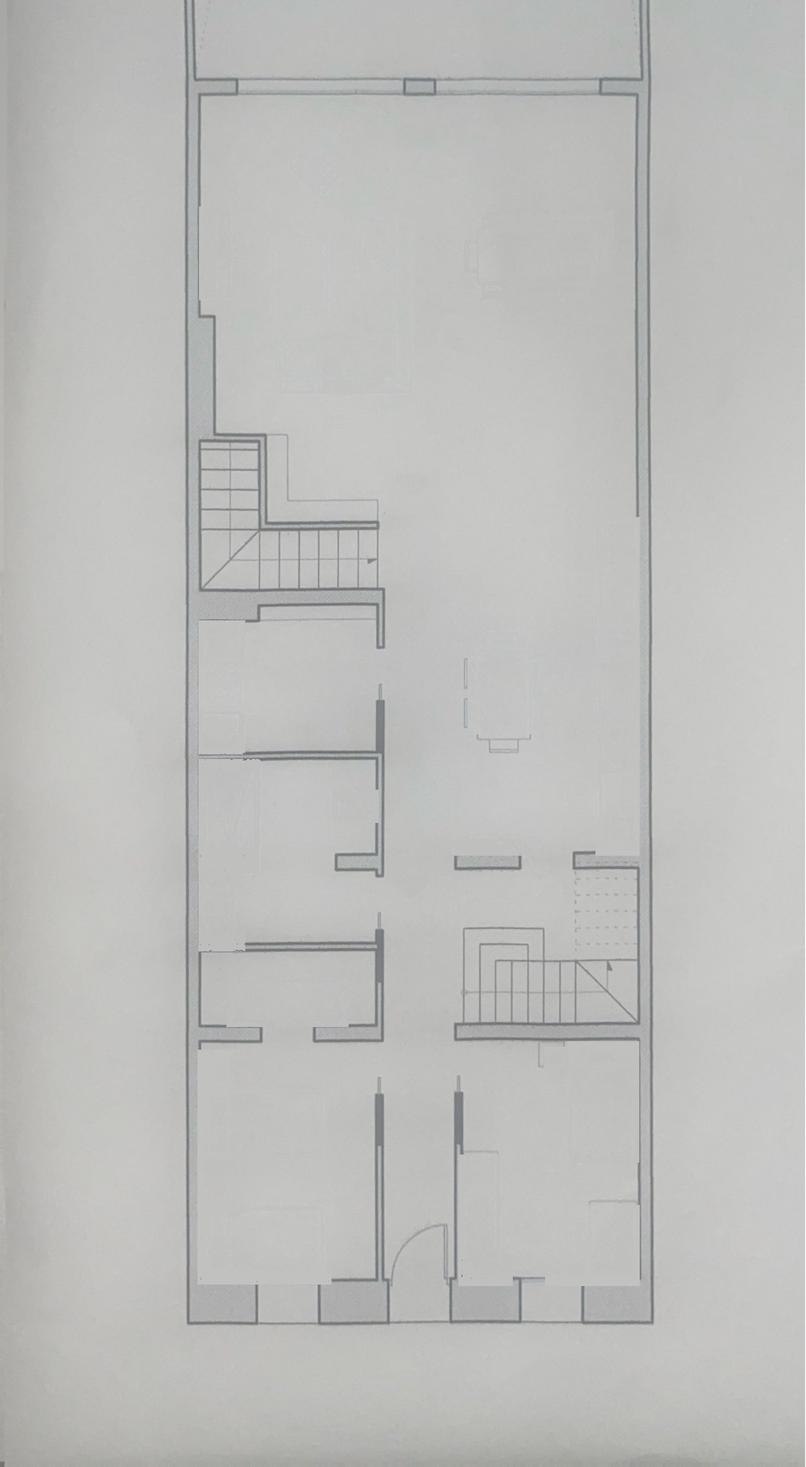
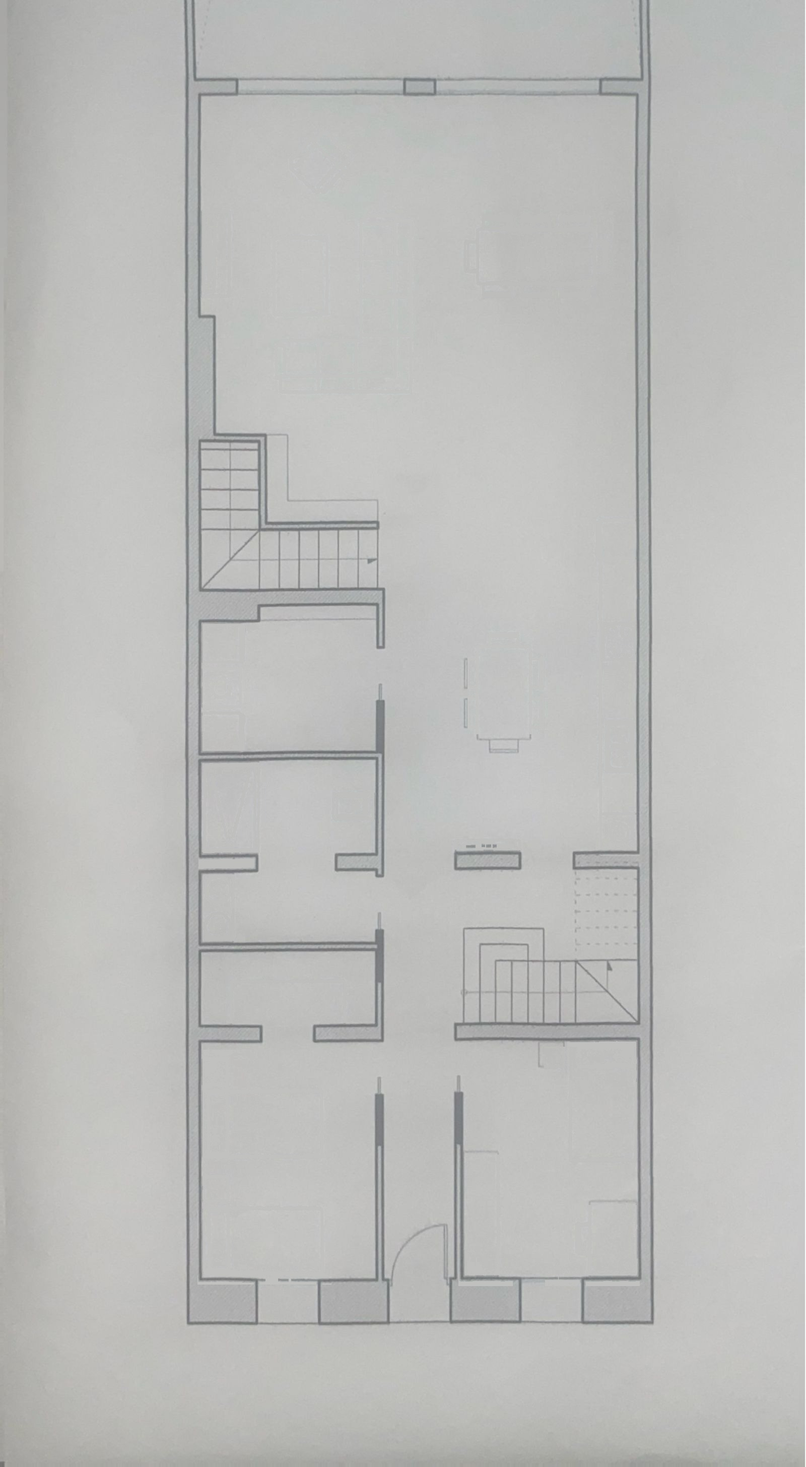
V2.85 — Planos: muros respetados, muebles no atraviesan muros, Mobiliario y térmicos en barra superior

diff --git a/planos/index.html b/planos/index.html
@@ -120,10 +120,10 @@ const IC={anadir:'<svg viewBox="0 0 24 24" fill="none" stroke="currentColor" str
  texto:'<svg viewBox="0 0 24 24" fill="none" stroke="currentColor" stroke-width="2.2"><path d="M5 5h14M12 5v15"/></svg>',
  borrar:'<svg viewBox="0 0 24 24" fill="none" stroke="currentColor" stroke-width="2"><path d="M4 7h16M9 7V4h6v3M6 7l1 13h10l1-13"/></svg>'};
 IC.subida='<svg viewBox="0 0 24 24" fill="none" stroke="currentColor" stroke-width="2"><circle cx="12" cy="12" r="9"/><path d="M12 17V7M8 11l4-4 4 4"/></svg>';
-const TODOS=[['mover','Mover'],['cable','Cable'],['caja','Caja'],['luz','Bombilla'],['int','Interruptor'],['ench','Enchufe'],['vent','Ventilador'],['cuadro','Cuadro'],['tv','TV / Red'],['subida','Subida'],['texto','Texto'],['mueble','Mobiliario'],['muro','Muro'],['borrar','Borrar']];
+const TODOS=[['mover','Mover'],['cable','Cable'],['caja','Caja'],['luz','Bombilla'],['int','Interruptor'],['ench','Enchufe'],['vent','Ventilador'],['cuadro','Cuadro'],['tv','TV / Red'],['subida','Subida'],['texto','Texto'],['muro','Muro'],['borrar','Borrar']];
 const PONER=['caja','luz','int','ench','vent','cuadro','tv','subida','texto'];
 const TIPOS=TODOS.filter(x=>PONER.includes(x[0]));
-const HERR=[['mover','Mover'],['anadir','Añadir'],['cable','Conectar'],['mueble','Mobiliario'],['muro','Muro'],['borrar','Borrar']];
+const HERR=[['mover','Mover'],['anadir','Añadir'],['cable','Conectar'],['muro','Muro'],['borrar','Borrar']];
 let CON=null;
 let CORR=false, VSEL=null; let MODO='mover', CIRC=P.circ[0]&&P.circ[0].id, SEL=null, DIB=null, ORTO=true, FIL=null;
 try{ ORTO=localStorage.getItem('dgp-planos-orto')!=='0'; }catch(e){}
@@ -157,6 +157,14 @@ function simb(el){ const t=el.t, k='#111';
 function cajaLin(el){ const M={}; P.cab.forEach(c=>{ if(c.a===el.id||c.b===el.id) M[c.c]=(M[c.c]||0)+1; });
   return P.circ.filter(c=>M[c.id]).map(c=>({t:c.nom+' - '+M[c.id],col:c.col})); }
 const MUE={cama2:['Cama doble',135,225],cama1:['Cama individual',95,200],sofa:['Sofá',200,90],sofaL:['Sofá en L',260,350],sillon:['Sillón',90,90],mesa:['Mesa',110,150],comedor:['Mesa con sillas',280,160],escritorio:['Escritorio',170,140],silla:['Silla',45,45],mesita:['Mesita',50,50],armario:['Armario',220,85],tvm:['Mueble TV',52,170],encimera:['Encimera',72,600],placa:['Placa',62,70],fregadero:['Fregadero',55,100],lavavajillas:['Lavavajillas / horno',62,72],lavadora:['Lavadora',77,75],secadora:['Secadora',77,72],frigo:['Frigorífico',75,75],inodoro:['Inodoro',66,50],lavabo:['Lavabo',80,50],ducha:['Ducha / bañera',100,200],radiador:['Radiador',128,24],otro:['Otro',100,100]};
+let MURO=null;
+function cargaMuro(){ MURO=null; if(!P.fondo||!P.fondo.src) return; const src=P.fondo.src, im=new Image(); im.crossOrigin='anonymous'; im.onload=()=>{ try{ const k=1, W=Math.ceil(P.fondo.w/k), H=Math.ceil(P.fondo.h/k), cv=document.createElement('canvas'); cv.width=W; cv.height=H; const cx=cv.getContext('2d'); cx.drawImage(im,0,0,W,H); const d=cx.getImageData(0,0,W,H).data, I=new Int32Array((W+1)*(H+1));
+  for(let y=0;y<H;y++){ let row=0; for(let x=0;x<W;x++){ const o=(y*W+x)*4; row+=((d[o]+d[o+1]+d[o+2])/3<142)?1:0; I[(y+1)*(W+1)+x+1]=I[y*(W+1)+x+1]+row; } }
+  if(P.fondo&&P.fondo.src===src) MURO={k,W,H,I,sx:P.fondo.w/im.naturalWidth}; window.__muro=MURO; }catch(e){ window.__muroErr=String(e); } }; im.onerror=()=>{ window.__muroErr='load'; }; im.src=src; }
+function choca(el){ if(!MURO||el.t!=='mueble') return false; const [a,b]=semi(el), k=MURO.k, W=MURO.W, ins=6;
+  const x0=Math.max(0,Math.floor((el.x-a+ins)/k)), x1=Math.min(W,Math.ceil((el.x+a-ins)/k)), y0=Math.max(0,Math.floor((el.y-b+ins)/k)), y1=Math.min(MURO.H,Math.ceil((el.y+b-ins)/k)); if(x1<=x0||y1<=y0) return false;
+  const I=MURO.I; return I[y1*(W+1)+x1]-I[y0*(W+1)+x1]-I[y1*(W+1)+x0]+I[y0*(W+1)+x0]; }
+const peor=(el,f)=>{ const a=choca(el); f(); return choca(el)>a+2; };
 function mueDim(el){ const d=MUE[el.m]||MUE.otro; return [el.w||d[1], el.h||d[2]]; }
 function mueSVG(el){ const [w,h]=mueDim(el), x0=-w/2, y0=-h/2, st=' fill="#ffffff" fill-opacity=".55" stroke="#374151" stroke-width="2"', R=(x,y,a,b,r)=>'<rect x="'+x+'" y="'+y+'" width="'+a+'" height="'+b+'" rx="'+(r||2)+'"'+st+'/>', C=(x,y,r)=>'<circle cx="'+x+'" cy="'+y+'" r="'+r+'"'+st+'/>', L=(d)=>'<path d="'+d+'" stroke="#374151" stroke-width="2" fill="none"/>';
   const m=el.m; let g='';
@@ -203,7 +211,8 @@ function puertos(c){ if(c.pts.length<2) return; const ea=c.a&&P.els.find(x=>x.id
   if(ea&&!c.pa) c.pa=ladoAuto(ea,c.pts[1]); if(eb&&!c.pb) c.pb=ladoAuto(eb,c.pts[c.pts.length-2]); }
 function sentido(c){ if(!c.ret){ const ea0=P.els.find(x=>x.id===c.a), eb0=P.els.find(x=>x.id===c.b); if(eb0&&esCaja(eb0)&&ea0&&!esCaja(ea0)){ c.pts.reverse(); [c.a,c.b]=[c.b,c.a]; [c.pa,c.pb]=[c.pb,c.pa]; } } puertos(c); return; const ea=P.els.find(x=>x.id===c.a), eb=P.els.find(x=>x.id===c.b);
   if(eb&&esCaja(eb)&&ea&&!esCaja(ea)){ c.pts.reverse(); [c.a,c.b]=[c.b,c.a]; [c.pa,c.pb]=[c.pb,c.pa]; } }
-function pinta(){ P.cab.forEach(sentido); marcadores(); $('nombre').textContent=P.nombre||'Plano';
+let MURO_SRC=null;
+function pinta(){ { const fs=P.fondo&&P.fondo.src||null; if(fs!==MURO_SRC){ MURO_SRC=fs; cargaMuro(); } } P.cab.forEach(sentido); marcadores(); $('nombre').textContent=P.nombre||'Plano';
   let h='<rect x="0" y="0" width="'+P.w+'" height="'+P.h+'" fill="#fff"/><rect x="0" y="0" width="'+P.w+'" height="'+P.h+'" fill="url(#cuad)"/>';
   if(P.fondo) h+='<image href="'+P.fondo.src+'" x="0" y="0" width="'+P.fondo.w+'" height="'+P.fondo.h+'" opacity="'+P.fop+'"/>';
   h+=P.muros.map(m=>'<line data-k="m" data-id="'+m.id+'" x1="'+m.x1+'" y1="'+m.y1+'" x2="'+m.x2+'" y2="'+m.y2+'" stroke="'+(SEL&&SEL.id===m.id?'#ffb81c':'#8a8a8a')+'" stroke-width="'+(m.g||18)+'" stroke-linecap="square"/>').join('');
@@ -234,7 +243,7 @@ function pinta(){ P.cab.forEach(sentido); marcadores(); $('nombre').textContent=
     if(REENG.el){ const el=P.els.find(x=>x.id===REENG.el); if(el) ['t','r','b','l'].forEach(sd=>{ const q=puerto(el,sd), o=sd==='t'?[0,-16]:sd==='b'?[0,16]:sd==='l'?[-16,0]:[16,0]; h+='<circle data-k="rp" data-id="'+el.id+'" data-s="'+sd+'" cx="'+(q[0]+o[0])+'" cy="'+(q[1]+o[1])+'" r="14" fill="#22c55e" stroke="#fff" stroke-width="3"/>'; }); }
   } }
   vista.innerHTML=h; pintaCircs(); pintaHerr(); pintaAccion(); }
-function pintaCircs(){ $('bDeshacer').disabled=!HIST.length; $('bRehacer').disabled=!REDO.length; $('circs').innerHTML='<button class="chip'+(CORR?' on':'')+'" data-c="corr">Corrugados</button><button class="chip'+(!FIL?' on':'')+'" data-c="*">Todos</button>'+P.circ.map(c=>'<button class="chip'+(FIL===c.id?' on':'')+'" data-c="'+c.id+'"><i style="background:'+c.col+'"></i>'+esc(c.nom)+(c.desc?' <span class="meta">'+esc(c.desc)+'</span>':'')+'</button>').join('')+'<button class="chip" data-c="+">+ Térmico</button>'; }
+function pintaCircs(){ $('bDeshacer').disabled=!HIST.length; $('bRehacer').disabled=!REDO.length; const cs=P.circ.find(c=>c.id===FIL); $('circs').innerHTML='<button class="chip'+(MODO==='mueble'?' on':'')+'" data-c="mob">Mobiliario</button><button class="chip'+(CORR?' on':'')+'" data-c="corr">Corrugados</button><span class="chip" style="position:relative;padding:0 30px 0 12px">'+(cs?'<i style="background:'+cs.col+'"></i>'+esc(cs.nom)+(cs.desc?' <span class="meta">'+esc(cs.desc)+'</span>':''):'Todos los térmicos')+' ▾<select id="selCirc" style="position:absolute;inset:0;opacity:0;width:100%;font-size:16px"><option value="*"'+(!FIL?' selected':'')+'>Todos los térmicos</option>'+P.circ.map(c=>'<option value="'+c.id+'"'+(FIL===c.id?' selected':'')+'>'+esc(c.nom)+(c.desc?' · '+esc(c.desc):'')+'</option>').join('')+'<option value="+">+ Añadir térmico</option></select></span>'+(cs?'<button class="chip" data-c="'+cs.id+'">Editar</button>':''); }
 function pintaHerr(){ $('herr').innerHTML=HERR.map(x=>'<button data-h="'+x[0]+'" class="'+(MODO===x[0]||(x[0]==='anadir'&&PONER.includes(MODO))?'on':'')+'">'+IC[x[0]]+'<span>'+x[1]+'</span></button>').join('');
   const av=$('aviso'); let t='';
   if(REENG) t=REENG.el?'Elige el lado de entrada':'Toca dónde conectarlo (en verde)';
@@ -254,7 +263,6 @@ const bi=(a,ic,t,on)=>'<button data-a="'+a+'" aria-label="'+t+'" title="'+t+'" c
 function pintaAccion(){ const a=$('accion'); let h='';
   if(MODO==='cable'&&DIB&&DIB.pts&&DIB.pts.length) h='<button data-a="atras">Quitar último punto</button><button data-a="orto">'+(ORTO?'Recto':'Libre')+'</button><button data-a="cancel">Cancelar</button>';
   else if(MODO==='cable'&&CON) h='<button data-a="ccan">'+(CON.nuevo?'No conectar':'Cancelar')+'</button>';
-  else if(MODO==='mueble'&&!SEL) h='<select id="addMue" style="flex:0 0 auto;width:auto;height:40px;border:1px solid var(--bd);border-radius:10px;background:var(--panel,#1c1f26);color:inherit;font:inherit;font-weight:600;padding:0 10px"><option value="">+ Añadir mueble</option>'+Object.keys(MUE).map(k=>'<option value="'+k+'">'+MUE[k][0]+'</option>').join('')+'</select>';
   else if(SEL){ if(SEL.k==='e'){ const el=P.els.find(x=>x.id===SEL.id); if(!el){ SEL=null; } else h=bi('lock',el.lock?AI.cerrado:AI.abierto,el.lock?'Desbloquear':'Bloquear',el.lock)+(el.t==='texto'?bi('edit',AI.texto,'Editar texto'):'')+(el.t==='mueble'?'<select id="selMue" style="flex:0 0 auto;width:auto;height:40px;border:1px solid var(--bd);border-radius:10px;background:var(--panel,#1c1f26);color:inherit;font:inherit;font-weight:600;padding:0 8px">'+Object.keys(MUE).map(k=>'<option value="'+k+'"'+((el.m||'cama2')===k?' selected':'')+'>'+MUE[k][0]+'</option>').join('')+'</select>':'')+(el.t==='ench'?'<select id="selTomas" style="flex:0 0 auto;width:auto;min-width:0;height:40px;border:1px solid var(--bd);border-radius:10px;background:var(--panel,#1c1f26);color:inherit;font:inherit;font-weight:600;padding:0 8px">'+[1,2,3,4,5].map(n=>'<option value="'+n+'"'+((el.n||1)===n?' selected':'')+'>×'+n+'</option>').join('')+'</select>':'')+(el.t!=='texto'?bi('sus',AI.sus,'Sustituir'):'')+(el.t!=='texto'&&el.t!=='caja'?bi('lab',AI.texto,'Nombre'):'')+bi('menos','−','Más pequeño')+bi('mas','+','Más grande')+bi('rot',AI.rot,'Girar')+bi('dup',AI.dup,'Duplicar')+bi('del',AI.del,'Borrar'); }
     else if(SEL.k==='c') { const cc=P.cab.find(x=>x.id===SEL.id)||{}; h=bi('lock',cc.lock?AI.cerrado:AI.abierto,cc.lock?'Desbloquear':'Bloquear',cc.lock)+(VSEL!=null?'<button data-a="qv">Quitar punto</button>':'')+'<button data-a="av">Añadir punto</button><button data-a="ret">'+(cc.ret?'Pasar a normal':'Pasar a retorno')+'</button><button data-a="ccol">Cambiar térmico</button><button data-a="flecha">Flecha</button><button data-a="grueso">Grosor</button>'+bi('del',AI.del,'Borrar'); }
     else if(SEL.k==='m') h=''+bi('del',AI.del,'Borrar muro')+''; }
@@ -281,7 +289,7 @@ svg.addEventListener('pointerdown',e=>{ svg.setPointerCapture(e.pointerId); PTR.
   if(h&&h.k==='rz'&&!(P.els.find(x=>x.id===h.id)||{}).lock){ const el=P.els.find(x=>x.id===h.id); snap(); ARR={tipo:'rz',id:h.id,d0:Math.max(8,Math.hypot(p.x-el.x,p.y-el.y)),s0:el.sc||1}; return; }
   if(MODO==='mover'||MODO==='mueble'){
     if(h&&h.k==='v'&&!(P.cab.find(x=>x.id===h.id)||{}).lock){ snap(); VSEL=h.i; ARR={tipo:'v',id:h.id,i:h.i}; pinta(); return; }
-    if(h&&(h.k==='e'||h.k==='c'||h.k==='m')){ if(!SEL||SEL.id!==h.id) VSEL=null; SEL={k:h.k,id:h.id}; const lo=(h.k==='e'?P.els.find(x=>x.id===h.id):h.k==='c'?P.cab.find(x=>x.id===h.id):null); if(lo&&lo.lock){ ARR={tipo:'pan',sx:e.clientX,sy:e.clientY,vx:VX,vy:VY}; pinta(); return; } snap(); ARR={tipo:'obj',k:h.k,id:h.id,x0:p.x,y0:p.y,orig:JSON.stringify(h.k==='e'?P.els.find(x=>x.id===h.id):h.k==='c'?P.cab.find(x=>x.id===h.id):P.muros.find(x=>x.id===h.id))}; pinta(); return; }
+    if(h&&(h.k==='e'||h.k==='c'||h.k==='m')){ if(!SEL||SEL.id!==h.id) VSEL=null; SEL={k:h.k,id:h.id}; const lo=(h.k==='e'?P.els.find(x=>x.id===h.id):h.k==='c'?P.cab.find(x=>x.id===h.id):null); if(lo&&lo.lock){ ARR={tipo:'pan',sx:e.clientX,sy:e.clientY,vx:VX,vy:VY}; pinta(); return; } snap(); ARR={tipo:'obj',c0:h.k==='e'?choca(P.els.find(x=>x.id===h.id)):0,k:h.k,id:h.id,x0:p.x,y0:p.y,orig:JSON.stringify(h.k==='e'?P.els.find(x=>x.id===h.id):h.k==='c'?P.cab.find(x=>x.id===h.id):P.muros.find(x=>x.id===h.id))}; pinta(); return; }
     ARR={tipo:'pan',sx:e.clientX,sy:e.clientY,vx:VX,vy:VY,desel:true}; return; }
   if(MODO==='muro'){ const q=[rej(p.x),rej(p.y)]; DIB={muro:{x1:q[0],y1:q[1],x2:q[0],y2:q[1]}}; ARR={tipo:'muro'}; return; }
   ARR={tipo:'tap',sx:e.clientX,sy:e.clientY,vx:VX,vy:VY,p,h}; });
@@ -294,10 +302,10 @@ svg.addEventListener('pointermove',e=>{ if(!PTR.has(e.pointerId)) return; PTR.se
   if(ARR.tipo==='pan'||ARR.tipo==='tap'){ const dx=e.clientX-ARR.sx, dy=e.clientY-ARR.sy; if(Math.hypot(dx,dy)>6){ MOV=true; if(ARR.tipo==='tap') ARR={tipo:'pan',sx:ARR.sx,sy:ARR.sy,vx:ARR.vx,vy:ARR.vy}; VX=ARR.vx+dx; VY=ARR.vy+dy; aplicaVista(); } return; }
   if(ARR.tipo==='re'){ if(Math.hypot(e.clientX-ARR.sx,e.clientY-ARR.sy)>6){ MOV=true; REENG={id:ARR.id,w:ARR.w,drag:[p.x,p.y]}; const c=P.cab.find(x=>x.id===ARR.id); const t=c&&reCand(c,ARR.w).find(el=>{ const [a,b]=semi(el); return Math.abs(p.x-el.x)<a+30&&Math.abs(p.y-el.y)<b+30; }); REENG.el=t?t.id:null; pinta(); } return; }
   if(ARR.tipo==='muro'){ const m=DIB.muro; let q=[rej(p.x),rej(p.y)]; q=ortoPt([m.x1,m.y1],q); m.x2=q[0]; m.y2=q[1]; pinta(); return; }
-  if(ARR.tipo==='rz'){ const el=P.els.find(x=>x.id===ARR.id); el.sc=Math.max(.3,Math.min(4,ARR.s0*Math.hypot(p.x-el.x,p.y-el.y)/ARR.d0)); MOV=true; pinta(); return; }
+  if(ARR.tipo==='rz'){ const el=P.els.find(x=>x.id===ARR.id); const sc0=el.sc, c0=choca(el); el.sc=Math.max(.3,Math.min(4,ARR.s0*Math.hypot(p.x-el.x,p.y-el.y)/ARR.d0)); if(choca(el)>c0+2) el.sc=sc0; MOV=true; pinta(); return; }
   if(ARR.tipo==='v'){ const c=P.cab.find(x=>x.id===ARR.id); if(!c) return; let q=[rej(p.x),rej(p.y)]; c.pts[ARR.i]=q; MOV=true; pinta(); return; }
   if(ARR.tipo==='obj'){ const dx=rej(p.x-ARR.x0), dy=rej(p.y-ARR.y0); if(!dx&&!dy) return; MOV=true; const o=JSON.parse(ARR.orig);
-    if(ARR.k==='e'){ const el=P.els.find(x=>x.id===ARR.id); el.x=o.x+dx; el.y=o.y+dy; sigue(el); }
+    if(ARR.k==='e'){ const el=P.els.find(x=>x.id===ARR.id); if(el.t==='mueble'){ const ox=el.x, oy=el.y, ok=()=>choca(el)<=(ARR.c0||0)+40; el.x=o.x+dx; el.y=o.y+dy; if(!ok()){ el.x=o.x+dx; el.y=oy; if(!ok()){ el.x=ox; el.y=o.y+dy; if(!ok()){ el.x=ox; el.y=oy; } } } } else { el.x=o.x+dx; el.y=o.y+dy; } sigue(el); }
     else if(ARR.k==='c'){ const c=P.cab.find(x=>x.id===ARR.id); c.pts=o.pts.map(q=>[q[0]+dx,q[1]+dy]); }
     else { const m=P.muros.find(x=>x.id===ARR.id); m.x1=o.x1+dx; m.y1=o.y1+dy; m.x2=o.x2+dx; m.y2=o.y2+dy; }
     pinta(); } });
@@ -344,11 +352,12 @@ function conToque(h){ const okE=id=>{ const el=P.els.find(x=>x.id===id); return 
 function terminaCable(){ if(DIB&&DIB.pts&&DIB.pts.length>1){ snap(); P.cab.push(Object.assign({id:uid(),c:DIB.c,pts:DIB.pts,fl:true,g:4,a:DIB.a||null,b:DIB.b||null,ret:!!DIB.ret},DIB.pa?{pa:DIB.pa,pb:DIB.pb}:{})); sentido(P.cab[P.cab.length-1]); guarda(); } DIB=null; pinta(); }
 
 $('herr').onclick=e=>{ const b=e.target.closest('button'); if(!b) return; if(DIB&&DIB.pts) terminaCable(); CON=null;
-  if(b.dataset.h==='anadir'){ hoja('<h3>Añadir</h3><div style="display:grid;grid-template-columns:repeat(3,1fr);gap:8px">'+TIPOS.map(x=>'<button data-pon="'+x[0]+'" style="height:78px;display:flex;flex-direction:column;align-items:center;justify-content:center;gap:6px">'+IC[x[0]]+'<span style="font-size:13px">'+x[1]+'</span></button>').join('')+'</div><button id="ponX" style="margin-top:10px;width:100%">Cerrar</button>');
-    $('hoja').onclick=ev=>{ const q=ev.target.closest('button'); if(!q) return; if(q.dataset.pon){ MODO=q.dataset.pon; SEL=null; } cierra(); pinta(); }; return; }
+  if(b.dataset.h==='anadir'){ hoja('<h3>Añadir</h3><div style="display:grid;grid-template-columns:repeat(3,1fr);gap:8px">'+TIPOS.map(x=>'<button data-pon="'+x[0]+'" style="height:78px;display:flex;flex-direction:column;align-items:center;justify-content:center;gap:6px">'+IC[x[0]]+'<span style="font-size:13px">'+x[1]+'</span></button>').join('')+'</div><h3 style="margin-top:14px">Mobiliario</h3><div style="display:grid;grid-template-columns:repeat(3,1fr);gap:8px">'+Object.keys(MUE).map(k=>'<button data-mue="'+k+'" style="height:48px;font-size:13px">'+MUE[k][0]+'</button>').join('')+'</div><button id="ponX" style="margin-top:10px;width:100%">Cerrar</button>');
+    $('hoja').onclick=ev=>{ const q=ev.target.closest('button'); if(!q) return; if(q.dataset.pon){ MODO=q.dataset.pon; SEL=null; } if(q.dataset.mue){ const r=$('lienzo').getBoundingClientRect(); snap(); const el={id:uid(),t:'mueble',m:q.dataset.mue,x:Math.round((r.width/2-VX)/VS),y:Math.round((r.height/2-VY)/VS),r:0}; P.els.push(el); MODO='mueble'; SEL={k:'e',id:el.id}; guarda(); } cierra(); pinta(); }; return; }
   MODO=b.dataset.h; if(MODO!=='mover') SEL=null; pinta(); };
+$('circs').onchange=e=>{ if(e.target.id!=='selCirc') return; const v=e.target.value, o={dataset:{c:v}}; $('circs').onclick({target:{closest:()=>o}}); };
 $('circs').onclick=e=>{ const b=e.target.closest('button'); if(!b) return; const c=b.dataset.c; if(c==='+'){ abreCirc(); return; }
-  if(c==='*'){ FIL=null; pinta(); return; } if(c==='corr'){ togCorr(); return; }
+  if(c==='mob'){ MODO=MODO==='mueble'?'mover':'mueble'; SEL=null; CON=null; pinta(); return; } if(c==='*'){ FIL=null; pinta(); return; } if(c==='corr'){ togCorr(); return; }
   if(SEL&&SEL.k==='c'){ snap(); const k=P.cab.find(x=>x.id===SEL.id); if(k) k.c=c; CIRC=c; guarda(); pinta(); return; }
   if(DIB&&DIB.pts){ DIB.c=c; CIRC=c; pinta(); return; }
   if(FIL===c){ abreCirc(P.circ.find(x=>x.id===c)); return; }
@@ -369,7 +378,7 @@ $('accion').onclick=e=>{ const b=e.target.closest('button'); if(!b) return; cons
       $('hoja').querySelectorAll('svg').forEach(v=>{ v.style.width='24px'; v.style.height='24px'; });
       $('hoja').onclick=e=>{ const b=e.target.closest('button'); if(!b) return; if(b.id==='sX') cierra(); if(b.dataset.st){ snap(); el.t=b.dataset.st; delete el.n; if(el.t!=='caja') delete el.txt; guarda(); cierra(); pinta(); } }; return; }
     if(a==='lab'){ hoja('<h3>Nombre del aparato</h3><div class="campo"><input id="lTxt" value="'+esc(el.lab||'')+'" placeholder="Ej. Aire acondicionado, Aerotermia, Placa" maxlength="30"></div><div class="fila"><button class="pri" id="lOk" style="flex:1">Guardar</button><button id="lX">Cancelar</button></div>'); setTimeout(()=>$('lTxt').focus(),60); $('hoja').onclick=e=>{ const b=e.target.closest('button'); if(!b) return; if(b.id==='lX') cierra(); if(b.id==='lOk'){ snap(); el.lab=$('lTxt').value.trim(); guarda(); cierra(); pinta(); } }; return; }
-    if(a==='mas'||a==='menos'){ snap(); el.sc=Math.max(.3,Math.min(4,(el.sc||1)*(a==='mas'?1.2:1/1.2))); } else if(a==='rot'){ snap(); el.r=((el.r||0)+90)%360; } else if(a==='dup'){ snap(); const n=Object.assign({},el,{id:uid(),x:el.x+40,y:el.y+40}); P.els.push(n); SEL={k:'e',id:n.id}; }
+    if(a==='mas'||a==='menos'){ snap(); el.sc=Math.max(.3,Math.min(4,(el.sc||1)*(a==='mas'?1.2:1/1.2))); } else if(a==='rot'){ snap(); const c0=choca(el), r0=el.r; el.r=((el.r||0)+90)%360; if(choca(el)>c0+2){ el.r=r0; aviso('No cabe: chocaría con un muro'); } } else if(a==='dup'){ snap(); const n=Object.assign({},el,{id:uid(),x:el.x+40,y:el.y+40}); P.els.push(n); SEL={k:'e',id:n.id}; }
     else if(a==='doble'){ snap(); el.n=el.n>1?1:2; } else if(a==='edit'){ editaTexto(el); return; } guarda(); pinta(); }
   else if(SEL&&SEL.k==='c'){ const c=P.cab.find(x=>x.id===SEL.id); if(!c) return;
     if(a==='av'){ snap(); let bi=0,bl=-1; for(let i=0;i<c.pts.length-1;i++){ const L=Math.hypot(c.pts[i+1][0]-c.pts[i][0],c.pts[i+1][1]-c.pts[i][1]); if(L>bl){ bl=L; bi=i; } } const A=c.pts[bi],B=c.pts[bi+1]; c.pts.splice(bi+1,0,[rej((A[0]+B[0])/2),rej((A[1]+B[1])/2)]); VSEL=bi+1; }
@@ -539,7 +548,7 @@ pinta(); requestAnimationFrame(ajustar); cargaSrv().then(plantillas).then(migraR
 </script>
 <script>
 (function(){
-  var BUILD='V2.84', ROOT='../';
+  var BUILD='V2.85', ROOT='../';
   var VJ=new URL(ROOT+'version.json',location.href).href, t0=Date.now(), busy=false;
   function intentos(n){ try{ if(n===undefined) return +(sessionStorage.getItem('dgp_upd')||0); sessionStorage.setItem('dgp_upd',n); }catch(e){ return 0; } }
   async function recargar(){ intentos(intentos()+1); try{ await fetch(location.href.split('#')[0],{cache:'reload'}); }catch(e){} location.reload(); }

diff --git a/juegos/crucigramas/index.html b/juegos/crucigramas/index.html
@@ -96,7 +96,7 @@ summary{cursor:pointer;font-weight:600;padding:8px 0}
   <details id="det"><summary>Todas las pistas</summary><div id="lh"></div><div id="lv"></div></details>
   <h2>Mis crucigramas</h2>
   <div class="lista" id="lista"></div>
-  <p class="pie"><span id="version">V2.84</span></p>
+  <p class="pie"><span id="version">V2.85</span></p>
 </main>
 <script src="https://cdn.jsdelivr.net/npm/@supabase/supabase-js@2.45.0/dist/umd/supabase.min.js"></script>
 <script>
@@ -1030,7 +1030,7 @@ sincronizar();
 <script>
 /* Actualización automática: compara con version.json y recarga si hay versión nueva */
 (function(){
-  var BUILD='V2.84', ROOT='../../';
+  var BUILD='V2.85', ROOT='../../';
   var VJ=new URL(ROOT+'version.json',location.href).href, t0=Date.now(), busy=false;
   function intentos(n){ try{ if(n===undefined) return +(sessionStorage.getItem('dgp_upd')||0); sessionStorage.setItem('dgp_upd',n); }catch(e){ return 0; } }
   async function recargar(){ intentos(intentos()+1); try{ await fetch(location.href.split('#')[0],{cache:'reload'}); }catch(e){} location.reload(); }

diff --git a/media/index.html b/media/index.html
@@ -169,7 +169,7 @@ pre{white-space:pre-wrap;font-size:.75rem;color:var(--mut);max-height:160px;over
     </div>
   </section>
   <div class="m" id="diag" style="margin-top:18px;text-align:center;font-size:.75rem"></div>
-  <div class="m" style="margin-top:4px;text-align:center"><span id="version">V2.84</span></div>
+  <div class="m" style="margin-top:4px;text-align:center"><span id="version">V2.85</span></div>
   <pre id="log" hidden></pre>
 </div>
 
@@ -869,7 +869,7 @@ window.__medios={BD,get bucle(){return bucle;},get ctx(){return ctxA;},get prevE
 <script>
 /* Actualización automática: compara con version.json y recarga si hay versión nueva */
 (function(){
-  var BUILD='V2.84', ROOT='../';
+  var BUILD='V2.85', ROOT='../';
   if(/[?&]embed=1/.test(location.search)) return;
   var VJ=new URL(ROOT+'version.json',location.href).href, t0=Date.now(), busy=false;
   function intentos(n){ try{ if(n===undefined) return +(sessionStorage.getItem('dgp_upd')||0); sessionStorage.setItem('dgp_upd',n); }catch(e){ return 0; } }

diff --git a/index.html b/index.html
@@ -188,7 +188,7 @@ html,body{overscroll-behavior:none}html.sa{min-height:calc(100% + env(safe-area-
   <aside class="side">
     <div class="brand">DGP</div>
     <nav id="nav" aria-label="Secciones"></nav>
-    <div class="foot"><span class="m"><span id="version">V2.84</span></span><button id="out">Salir</button></div>
+    <div class="foot"><span class="m"><span id="version">V2.85</span></span><button id="out">Salir</button></div>
   </aside>
   <div>
   <div class="main">
@@ -952,7 +952,7 @@ iniciar();
 <script>
 /* Actualización automática: compara con version.json y recarga si hay versión nueva */
 (function(){
-  var BUILD='V2.84', ROOT='';
+  var BUILD='V2.85', ROOT='';
   if(/[?&]embed=1/.test(location.search)) return;
   var VJ=new URL(ROOT+'version.json',location.href).href, t0=Date.now(), busy=false;
   function intentos(n){ try{ if(n===undefined) return +(sessionStorage.getItem('dgp_upd')||0); sessionStorage.setItem('dgp_upd',n); }catch(e){ return 0; } }

diff --git a/juegos/index.html b/juegos/index.html
@@ -133,7 +133,7 @@ h2{font-size:.78rem;letter-spacing:.06em;text-transform:uppercase;color:var(--mu
   <h2>Mis partidas</h2>
   <div class="lista" id="lista"></div>
 
-  <p class="pie"><span id="version">V2.84</span></p>
+  <p class="pie"><span id="version">V2.85</span></p>
 </main>
 
 <script src="https://cdn.jsdelivr.net/npm/@supabase/supabase-js@2.45.0/dist/umd/supabase.min.js"></script>
@@ -590,7 +590,7 @@ sincronizar();
 <script>
 /* Actualización automática: compara con version.json y recarga si hay versión nueva */
 (function(){
-  var BUILD='V2.84', ROOT='../';
+  var BUILD='V2.85', ROOT='../';
   if(/[?&]embed=1/.test(location.search)) return;
   var VJ=new URL(ROOT+'version.json',location.href).href, t0=Date.now(), busy=false;
   function intentos(n){ try{ if(n===undefined) return +(sessionStorage.getItem('dgp_upd')||0); sessionStorage.setItem('dgp_upd',n); }catch(e){ return 0; } }

diff --git a/cocina/index.html b/cocina/index.html
@@ -579,7 +579,7 @@ document.addEventListener('visibilitychange',()=>{ if(!document.hidden&&$('sheet
 <script>
 /* Actualización automática */
 (function(){
-  var BUILD='V2.84', ROOT='../';
+  var BUILD='V2.85', ROOT='../';
   var VJ=new URL(ROOT+'version.json',location.href).href, t0=Date.now(), busy=false;
   function intentos(n){ try{ if(n===undefined) return +(sessionStorage.getItem('dgp_upd')||0); sessionStorage.setItem('dgp_upd',n); }catch(e){ return 0; } }
   async function recargar(){ intentos(intentos()+1); try{ await fetch(location.href.split('#')[0],{cache:'reload'}); }catch(e){} location.reload(); }

diff --git a/pizzeria/index.html b/pizzeria/index.html
@@ -214,7 +214,7 @@ document.addEventListener('visibilitychange',()=>{ if(!document.hidden) carga();
 <script>
 /* Actualización automática */
 (function(){
-  var BUILD='V2.84', ROOT='../';
+  var BUILD='V2.85', ROOT='../';
   var VJ=new URL(ROOT+'version.json',location.href).href, t0=Date.now(), busy=false;
   function intentos(n){ try{ if(n===undefined) return +(sessionStorage.getItem('dgp_upd')||0); sessionStorage.setItem('dgp_upd',n); }catch(e){ return 0; } }
   async function recargar(){ intentos(intentos()+1); try{ await fetch(location.href.split('#')[0],{cache:'reload'}); }catch(e){} location.reload(); }

diff --git a/proporciones/index.html b/proporciones/index.html
@@ -161,7 +161,7 @@ idbGet().then(b=>{ if(b) ponerImg(b); });
 <script>
 /* Actualización automática */
 (function(){
-  var BUILD='V2.84', ROOT='../';
+  var BUILD='V2.85', ROOT='../';
   var VJ=new URL(ROOT+'version.json',location.href).href, t0=Date.now(), busy=false;
   function intentos(n){ try{ if(n===undefined) return +(sessionStorage.getItem('dgp_upd')||0); sessionStorage.setItem('dgp_upd',n); }catch(e){ return 0; } }
   async function recargar(){ intentos(intentos()+1); try{ await fetch(location.href.split('#')[0],{cache:'reload'}); }catch(e){} location.reload(); }

diff --git a/musica/index.html b/musica/index.html
@@ -5635,7 +5635,7 @@ document.getElementById("importFile").addEventListener("change", (e)=>{
 <script>
 /* Actualización automática: compara con version.json y recarga si hay versión nueva */
 (function(){
-  var BUILD='V2.84', ROOT='../';
+  var BUILD='V2.85', ROOT='../';
   if(/[?&]embed=1/.test(location.search)) return;
   var VJ=new URL(ROOT+'version.json',location.href).href, t0=Date.now(), busy=false;
   function intentos(n){ try{ if(n===undefined) return +(sessionStorage.getItem('dgp_upd')||0); sessionStorage.setItem('dgp_upd',n); }catch(e){ return 0; } }
